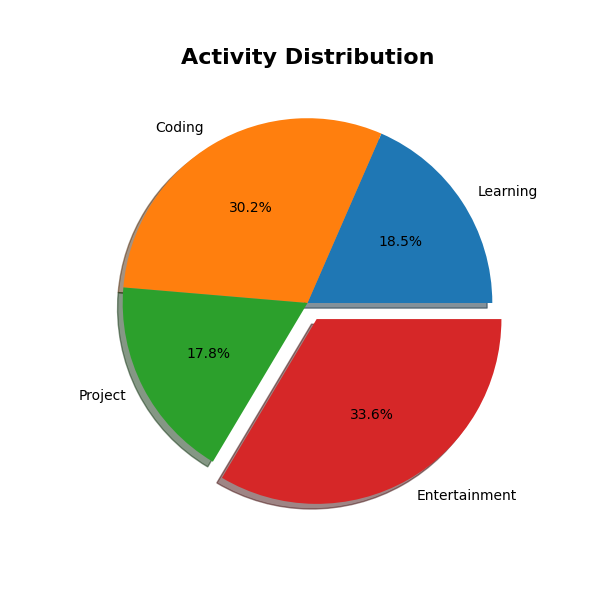
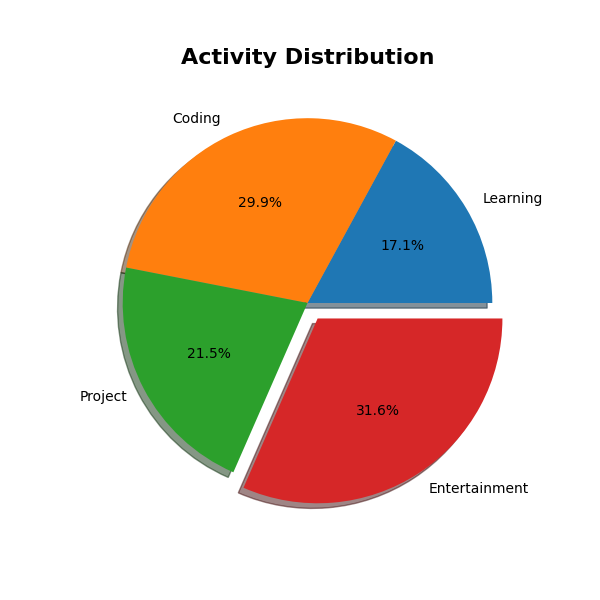
fix db path

diff --git a/app.py b/app.py
@@ -5,11 +5,16 @@ from datetime import date
 import matplotlib
 matplotlib.use("Agg")
 import matplotlib.pyplot as plt
+import os
 
 app = Flask(__name__)
 
 # Database Config
-app.config["SQLALCHEMY_DATABASE_URI"] = "sqlite:///developer.db"
+
+
+basedir = os.path.abspath(os.path.dirname(__file__))
+app.config['SQLALCHEMY_DATABASE_URI'] = \
+    'sqlite:///' + os.path.join(basedir, 'developer.db')
 app.config["SQLALCHEMY_TRACK_MODIFICATIONS"] = False
 
 db = SQLAlchemy(app)